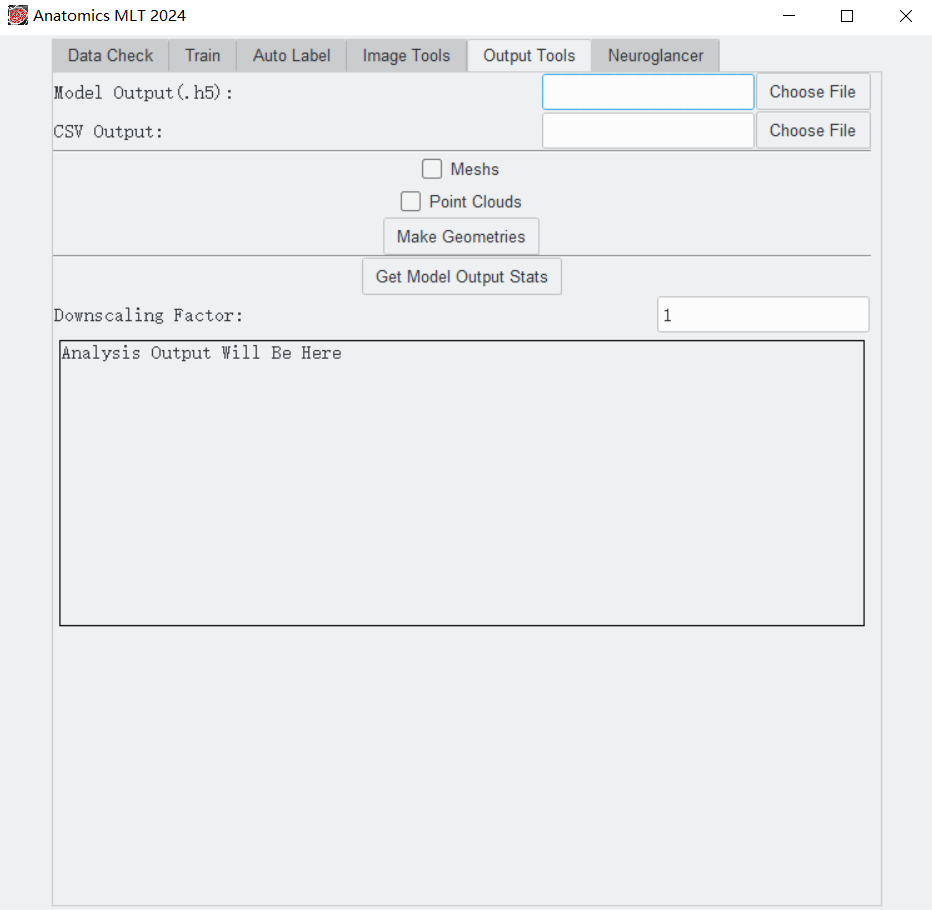
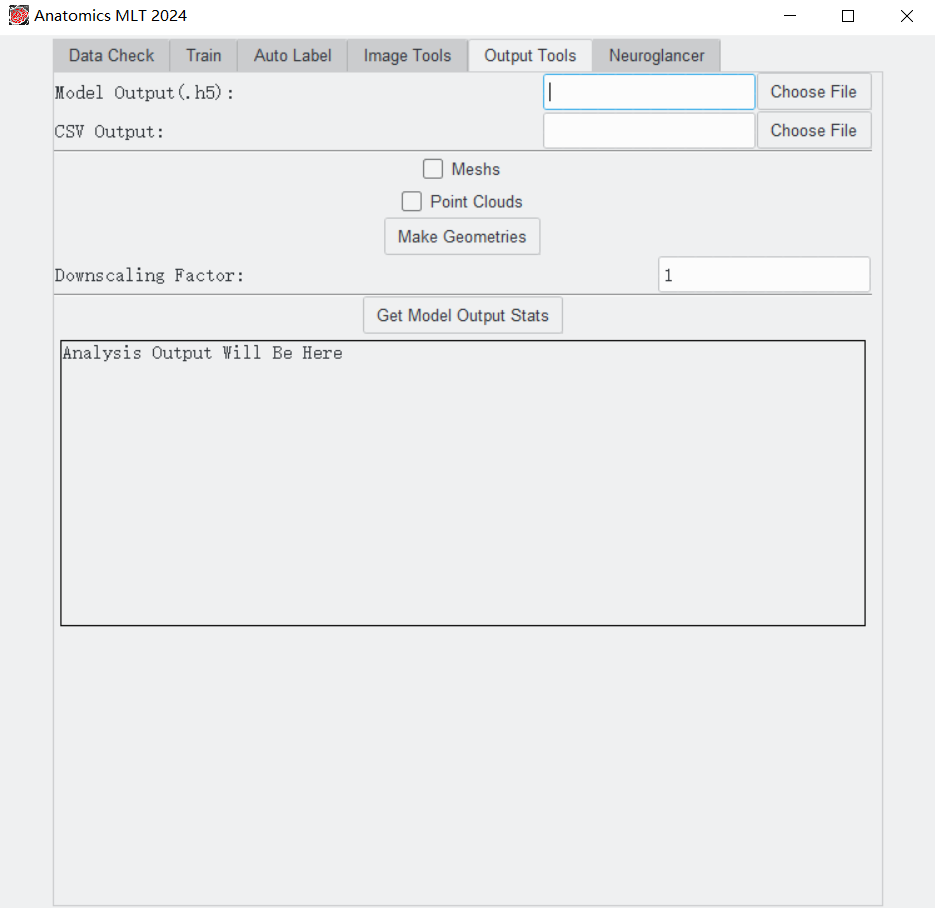
update

diff --git a/gui.py b/gui.py
@@ -125,7 +125,6 @@ class TabguiApp():
 		self.frameTrainMaster = ttk.Frame(self.tabHolder)
 		
 		canvas = tk.Canvas(self.frameTrainMaster,borderwidth=0)
-		# canvas.grid(row=0, column=0, sticky="nsew")
 		vsb = ttk.Scrollbar(self.frameTrainMaster, orient="vertical", command=canvas.yview)
 
 		self.frameTrain = ttk.Frame(canvas)
@@ -298,7 +297,6 @@ class TabguiApp():
 		#######################################################################################
 
 		self.framePredict = ttk.Frame(self.tabHolder)
-		self.framePredict.pack(side='top')
 
 		self.pathChooserUseImageStack1= ttk.Label(self.framePredict)
 		self.pathChooserUseImageStack1.configure(text='Image Stack(.tif or .h5):')
@@ -478,22 +476,22 @@ class TabguiApp():
 		self.buttonOutputMakeGeometries.grid(column='0', columnspan='2', row='5')
 		self.buttonOutputMakeGeometries.configure(command=self.OutputToolsMakeGeometriesButtonPress)
 
-		self.buttonOutputMakeGeometriesseparator = ttk.Separator(self.frameOutputTools)
-		self.buttonOutputMakeGeometriesseparator.configure(orient='horizontal')
-		self.buttonOutputMakeGeometriesseparator.grid(column='0', columnspan='2', row='6',sticky="ew")
-
-		self.buttonOutputGetStats = ttk.Button(self.frameOutputTools)
-		self.buttonOutputGetStats.configure(text='Get Model Output Stats')
-		self.buttonOutputGetStats.grid(column='0', columnspan='2', row='7')
-		self.buttonOutputGetStats.configure(command=self.OutputToolsModelOutputStatsButtonPress)
-
 		self.labelDownscaleGeometry = ttk.Label(self.frameOutputTools)
 		self.labelDownscaleGeometry.configure(text='Downscaling Factor:')
-		self.labelDownscaleGeometry.grid(column='0',row='8',sticky="w")
+		self.labelDownscaleGeometry.grid(column='0',row='6',sticky="w")
 
 		self.entryDownscaleGeometry = ttk.Entry(self.frameOutputTools)
 		self.entryDownscaleGeometry.insert('0',"1")
-		self.entryDownscaleGeometry.grid(column='1',row='8',sticky="e")
+		self.entryDownscaleGeometry.grid(column='1',row='6',sticky="e")
+
+		self.buttonOutputMakeGeometriesseparator = ttk.Separator(self.frameOutputTools)
+		self.buttonOutputMakeGeometriesseparator.configure(orient='horizontal')
+		self.buttonOutputMakeGeometriesseparator.grid(column='0', columnspan='2', row='7',sticky="ew")
+
+		self.buttonOutputGetStats = ttk.Button(self.frameOutputTools)
+		self.buttonOutputGetStats.configure(text='Get Model Output Stats')
+		self.buttonOutputGetStats.grid(column='0', columnspan='2', row='8')
+		self.buttonOutputGetStats.configure(command=self.OutputToolsModelOutputStatsButtonPress)
 
 		self.textOutputOutput = tk.Text(self.frameOutputTools,relief='solid',height=15)
 		_text_ = '''Analysis Output Will Be Here'''
@@ -581,8 +579,6 @@ class TabguiApp():
 		self.tabHolder.add(self.frameNeuroGlancer, text="Neuroglancer")
 
 		#####################################################
-
-		self.tabHolder.pack(side='top')
 
 		print("Width x Height", master.winfo_width(), 'x', master.winfo_height())
 
